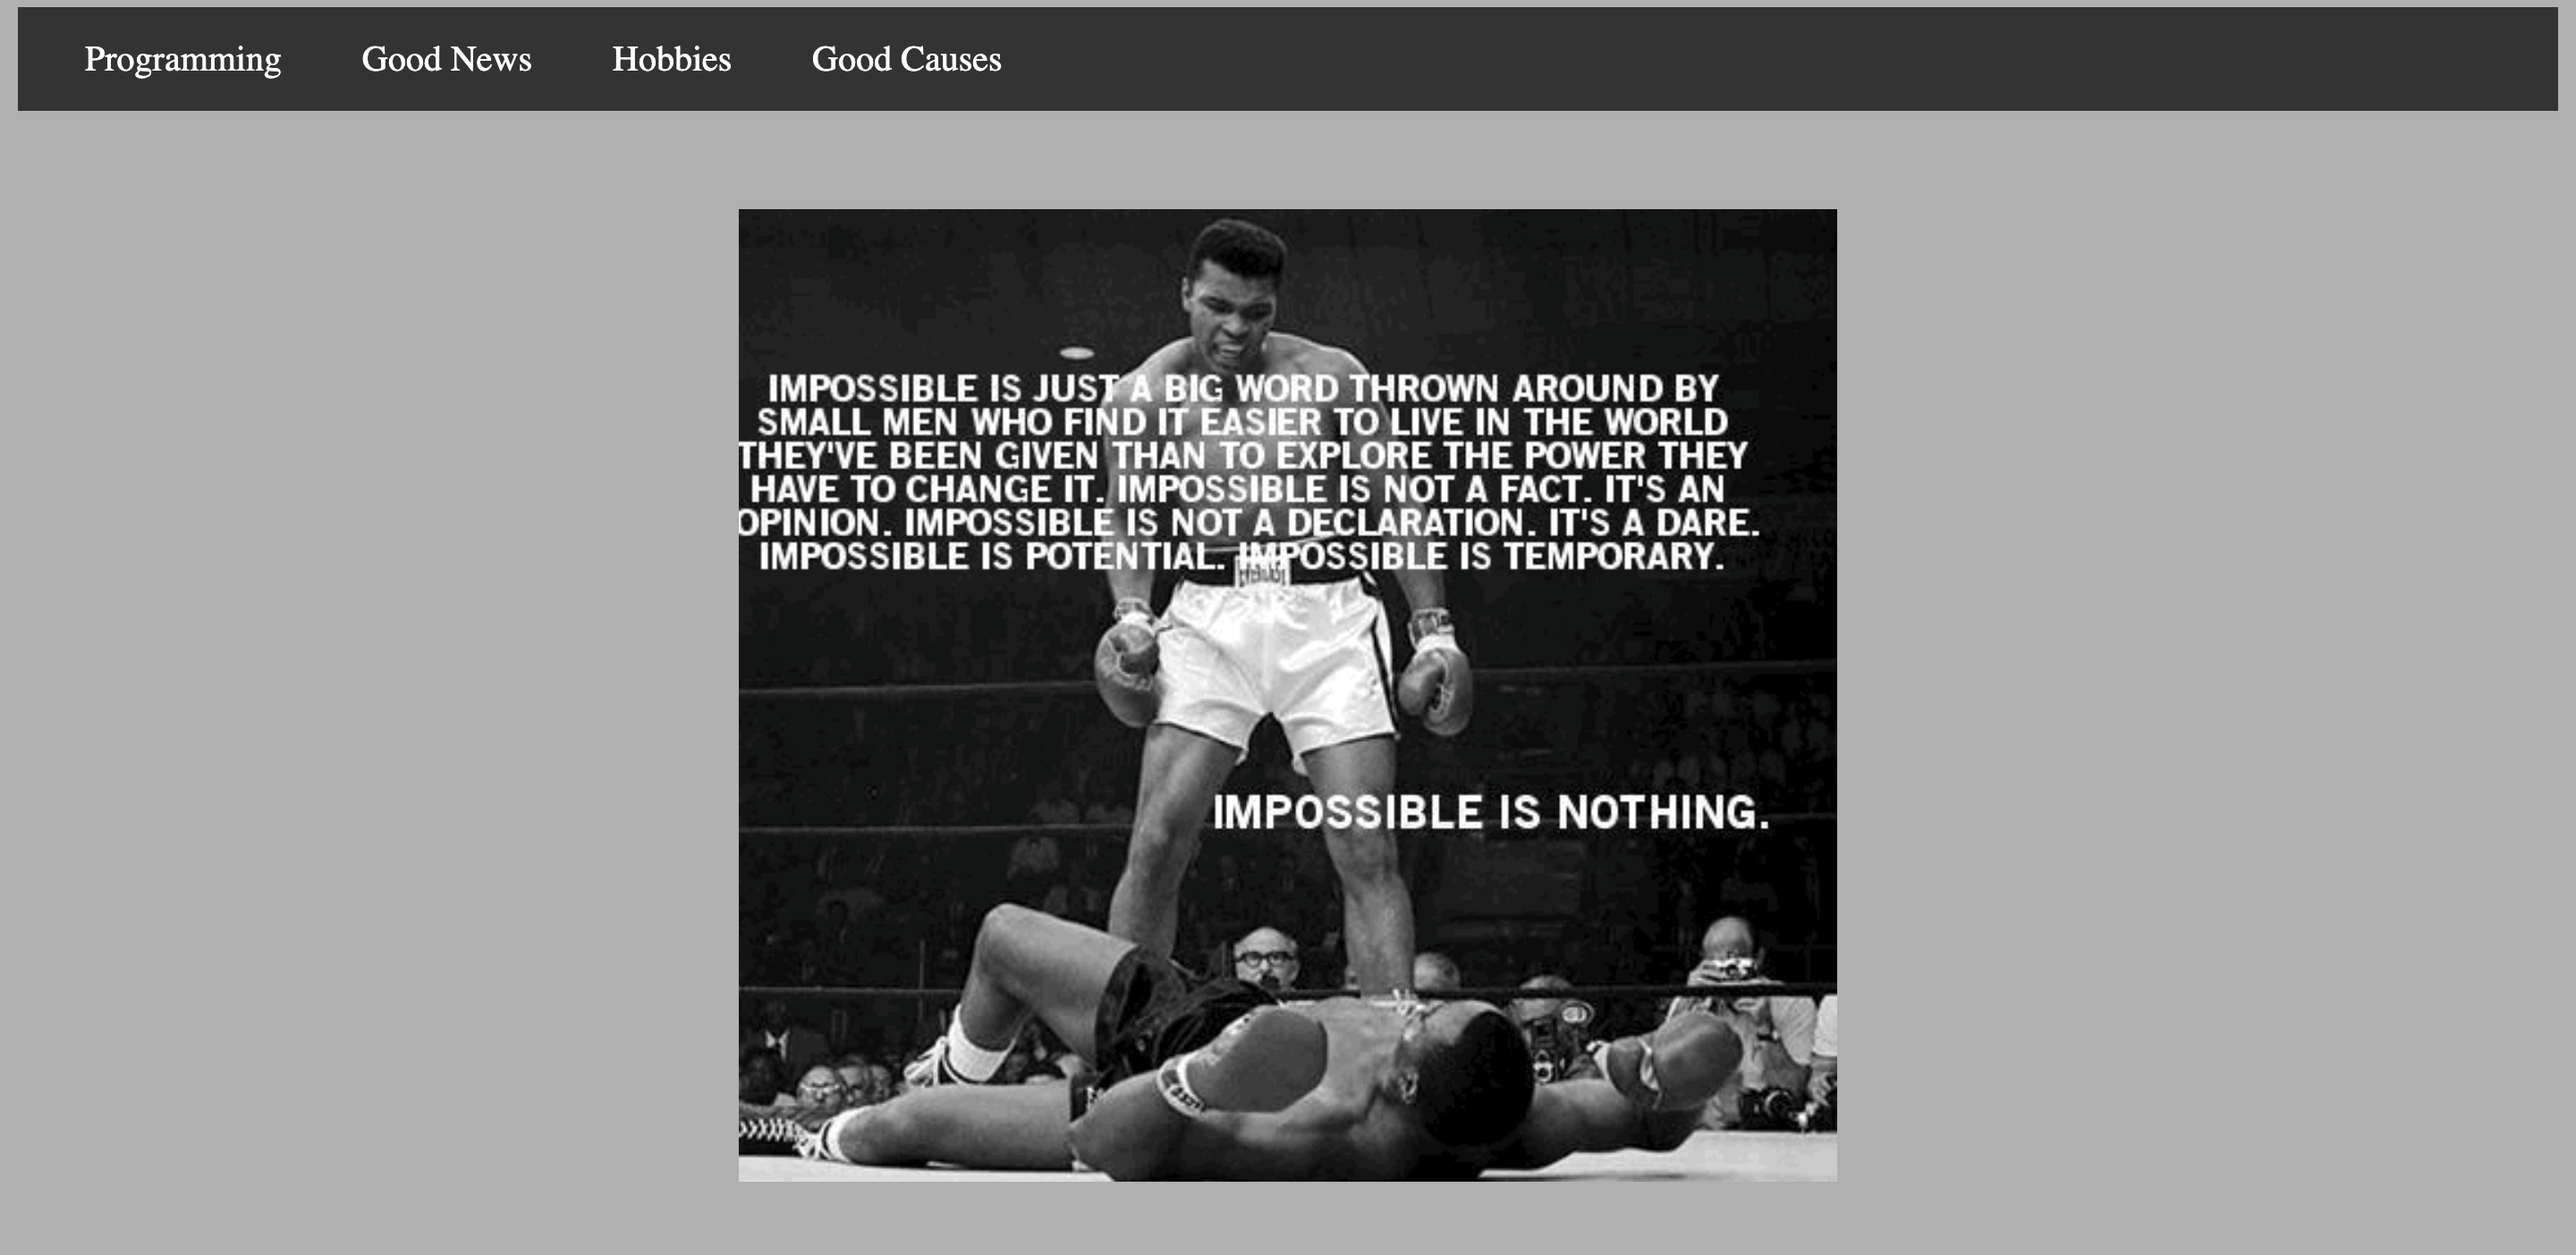
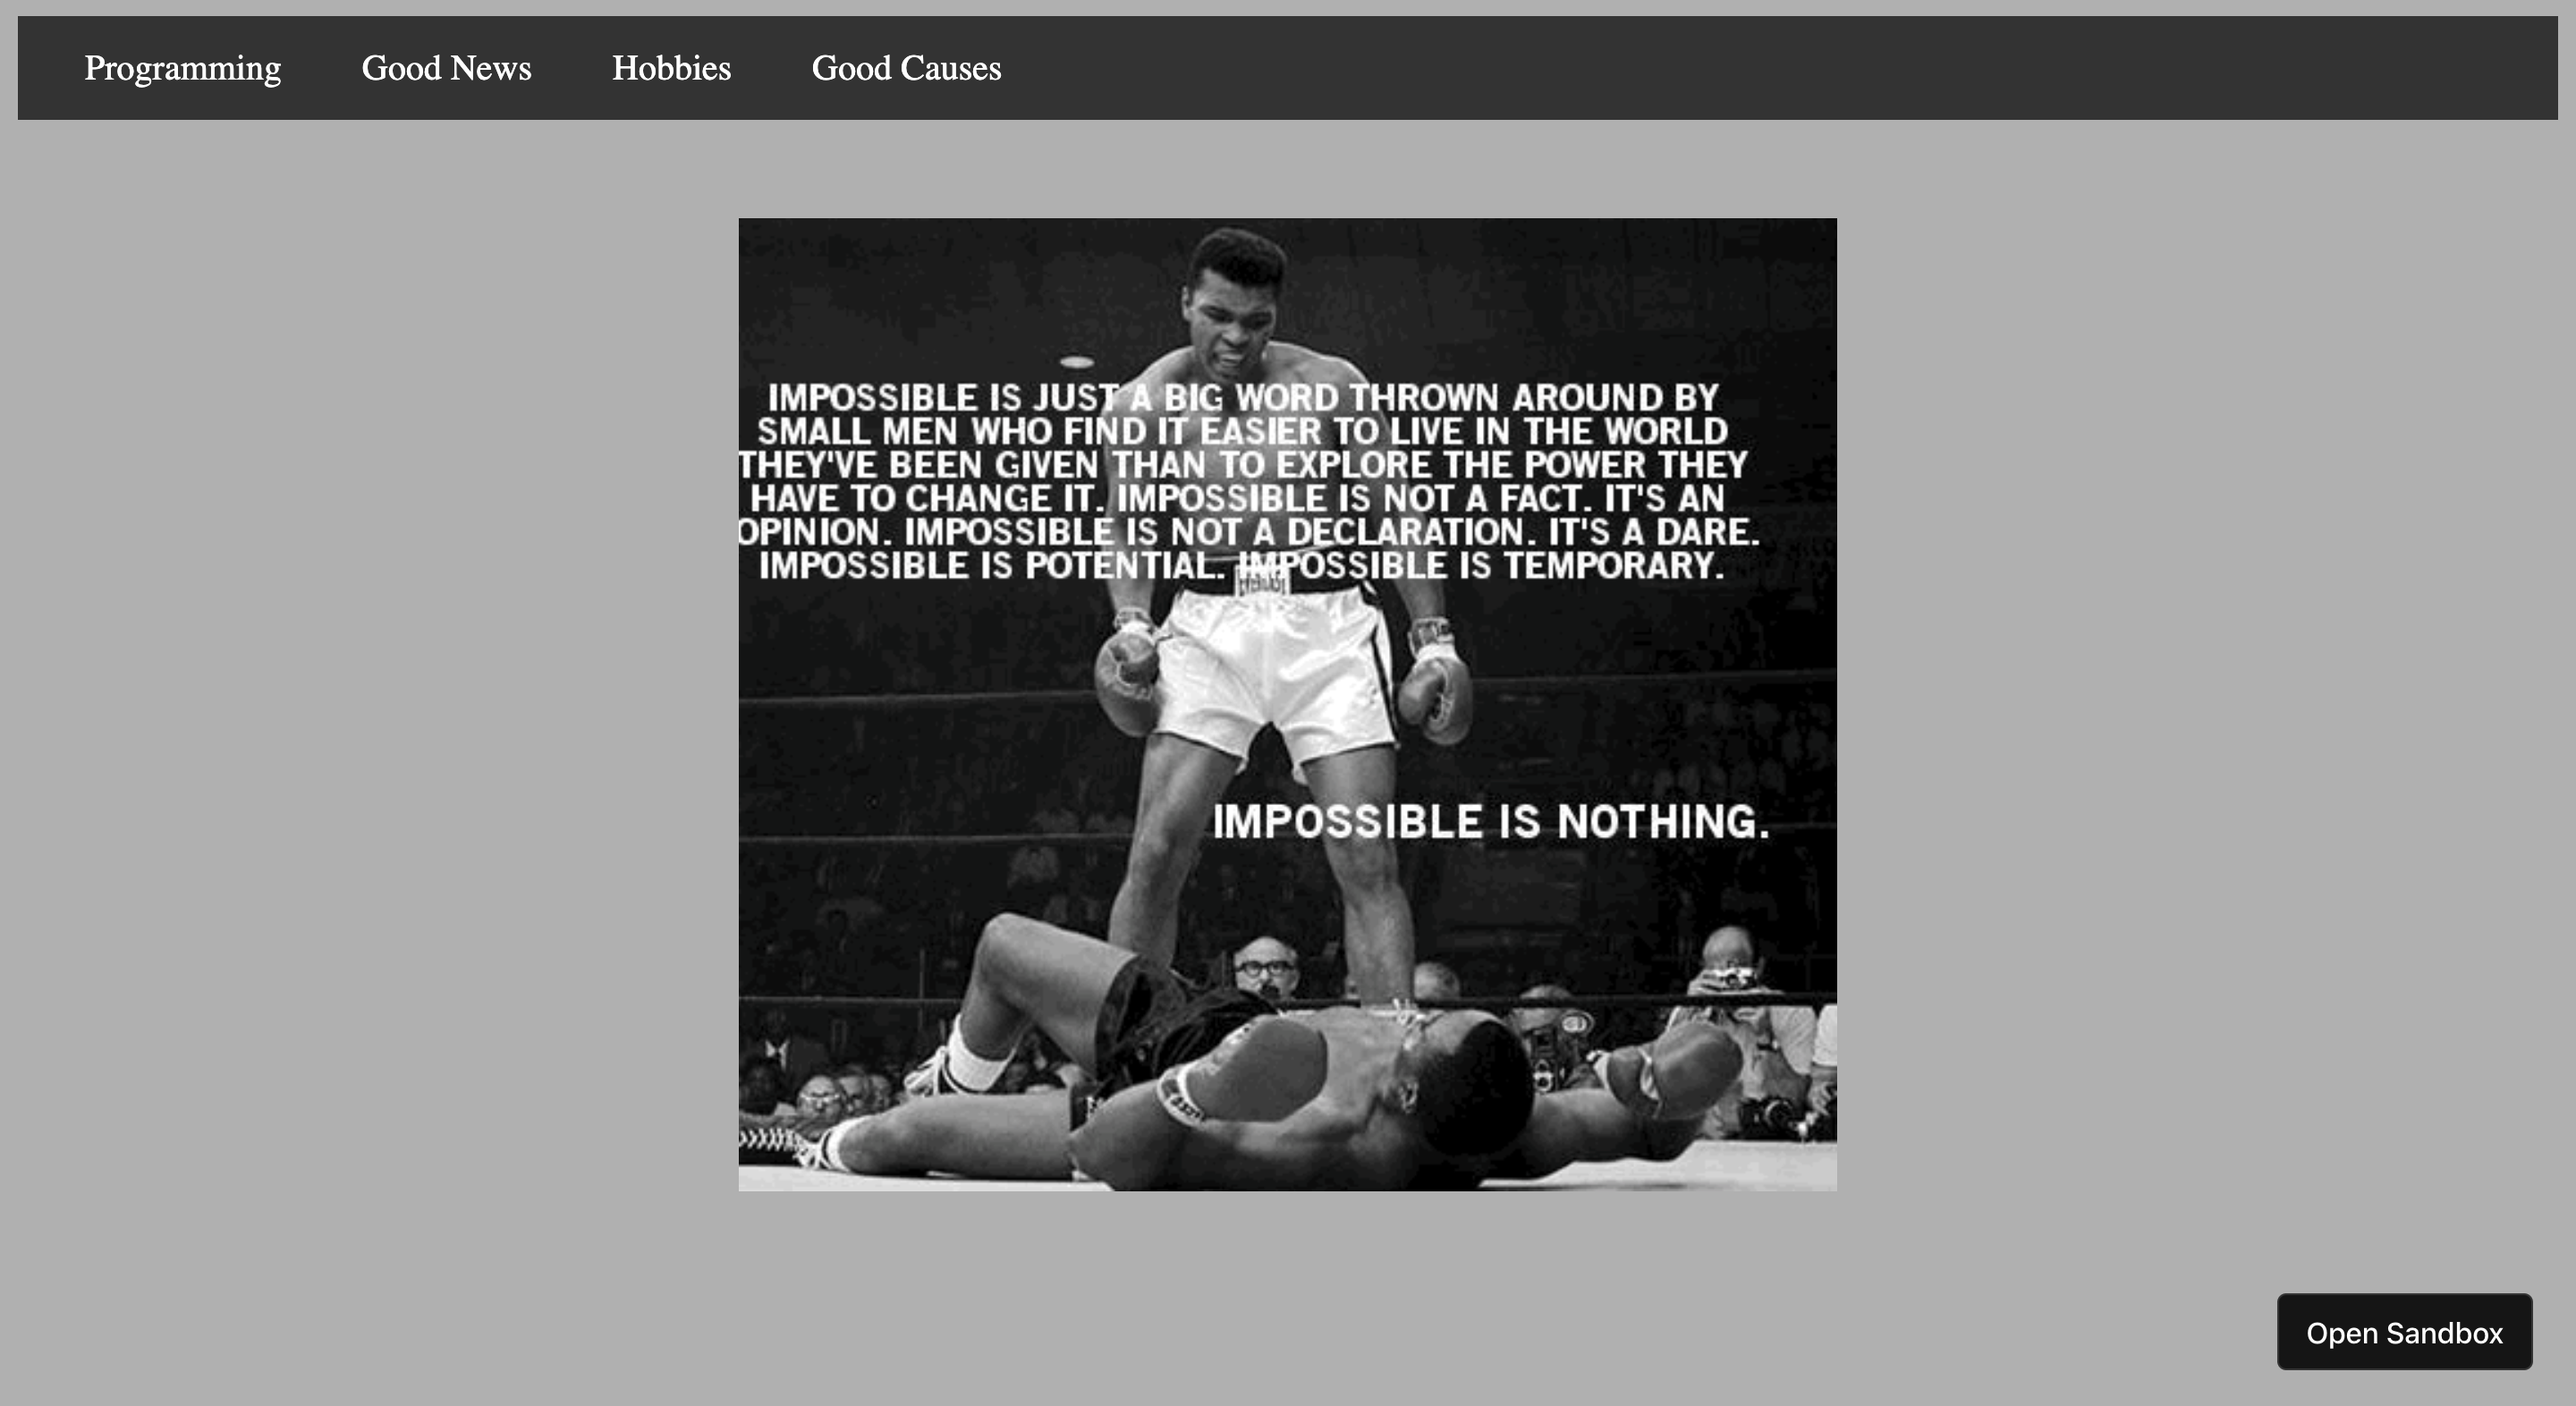
html css grids

diff --git a/index.html b/index.html
@@ -24,6 +24,8 @@
       -ms-flex-wrap: wrap; /* IE 10 */
       flex-wrap: wrap;
       padding: 0 4px;
+      width: 70%;
+      margin: auto;
     }
 
     /* Create two equal columns that sits next to each other */
@@ -117,7 +119,7 @@
       <div class="column">
         <img src="images/resume.png" style="width:90%">
         <img src="images/type.png" style="width:90%">
-        <img src="images/practice-website.png" style="width:90%">
+        <img src="images/good-websites.png" style="width:90%">
       </div>
     </div>
     
@@ -129,12 +131,12 @@
     </div>
   
     <hr> 
-    
+
     <div class="contact-me">
       <h2>Get In Touch</h2>
       <h3>I enjoy teaching others that are eager to learn.</h3>
       <p>Connect if you are interested in a career in tech.</p>
-      <a class="btn" href="mailto:name@email.com">CONTACT ME</a>
+      <a class="btn" href="mailto:carlo@snapit.solutions">CONTACT ME</a>
     </div>
   </div>
   

diff --git a/css/styles.css b/css/styles.css
@@ -6,7 +6,7 @@ body {
   background-color: aliceblue;
 }
 .top-container {
-  background-color: #88b8c7;
+  background-color: #959498;
   padding-top: 100px;
   z-index: -2;
   position: relative;
